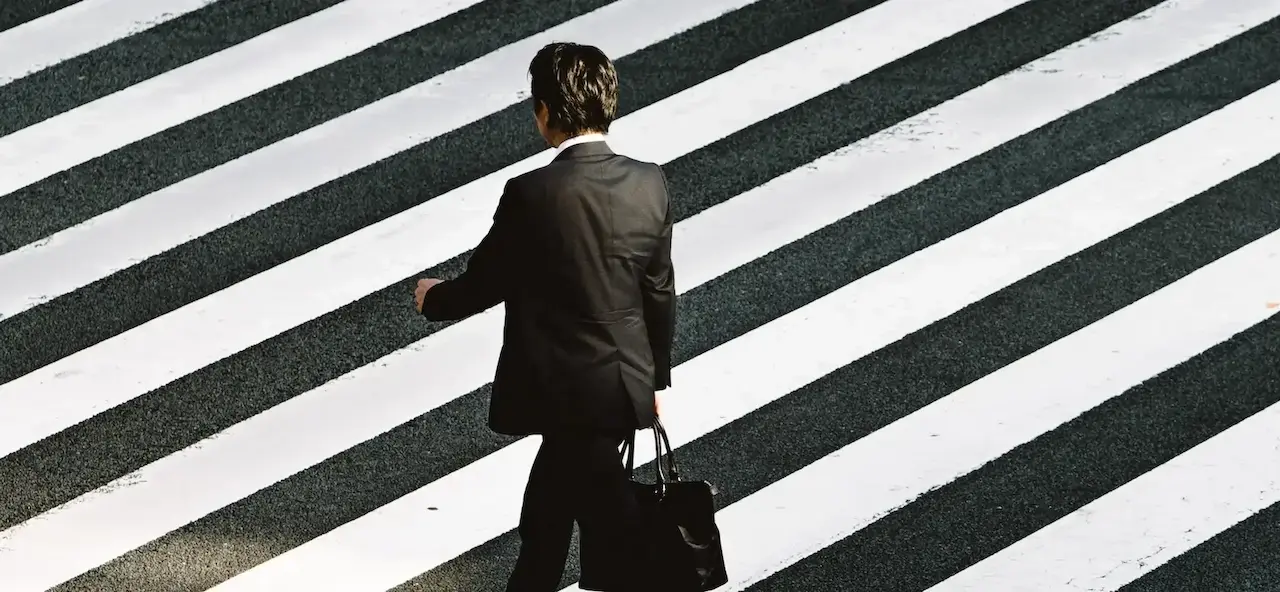
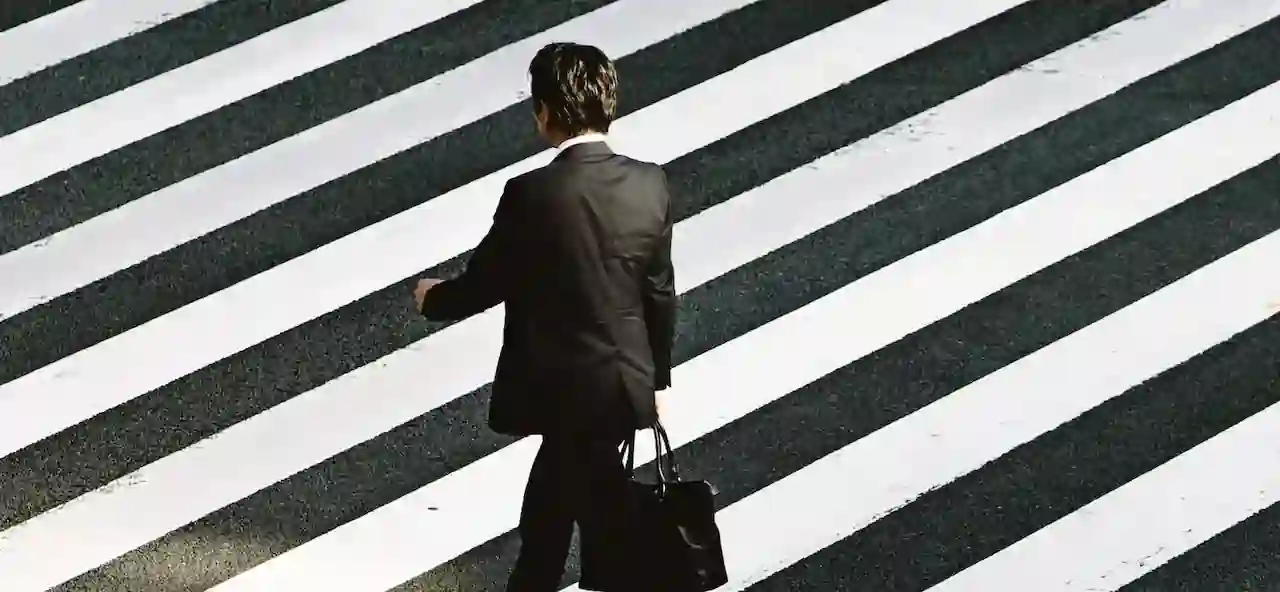
CLS: height-width on images

diff --git a/assets/style.min.css b/assets/style.min.css
@@ -1,1 +1,1 @@
-.service,.top-header{background-color:#fff;display:flex}#about,#contact{padding-inline:100px;padding-block:100px}.picture.left::before,.picture.right::before{content:' ';width:374px;height:329px;bottom:0;z-index:-1}#about,#contact .container,.mg-next,.mg-prev,.nav ul,.service,.top-header,form{display:flex}@font-face{font-family:Spectral-locale;src:url(Font/spectral/Spectral-LightItalic.ttf);font-display:swap}@font-face{font-family:Spectral-locale_bold;src:url(Font/spectral/Spectral-ExtraBoldItalic.ttf);font-display:swap}@font-face{font-family:Inter-locale;src:url(Font/Inter/static/Inter-Regular.ttf);font-display:swap}body{max-width:1920px;margin:auto}*{font-family:Inter-locale;font-style:normal}.top-header{position:sticky;top:0;z-index:1000;justify-content:space-between;padding-inline:100px;padding-block:30px;align-items:center}#about,#contact,#services,.item-column{position:relative}.top-header .name{font-size:26px}.nav ul{list-style-type:none;font-size:14px;margin-bottom:0}.nav li{padding-inline:10px}.nav a{text-decoration:none;color:#000}.social-link img{width:20px}#about{background-color:#f6d2b8}.picture.left::before{background-color:#e5975f;position:absolute;left:0}.picture{flex:1;margin:0 20px;z-index:0}.picture img{width:100%}#about-me,.form-container{flex:2}.about-me__title{margin-top:1em;margin-bottom:60px;font-size:30px}.about-me__introduction{font-family:Spectral-locale_bold;width:60%}.quote,.quote__author,.quote__text{font-family:Spectral-locale}#about-me p{width:80%;font-size:14px}.title{text-align:center;padding-block:2em;font-size:1.7rem}.my-4{margin-bottom:24px}.gallery .nav{justify-content:center}.nav-pills .nav-link{color:#000;cursor:pointer}.nav-link.active-tag,.nav-link.active-tag.active{background:#9f6604;color:#fff}.item-column{margin-bottom:0;padding:0}.item-column::after{content:"";display:block;padding-bottom:100%}.gallery-item{position:absolute;width:100%;height:100%;object-fit:cover;padding:.5em;cursor:pointer}.mg-next,.mg-prev{width:30px;height:30px;border-radius:00%;justify-content:center;align-items:center;font-size:24px}form input,form textarea{width:100%;background-color:transparent;border:1px solid;margin-bottom:20px}.modal-dialog{padding:32px}.quote{font-style:italic;width:70%;margin:auto;padding-block:3em}.quote__text{font-style:italic;font-weight:300;font-size:2.5rem}.quote__author{font-weight:800;font-size:22px}#services{margin:auto;background-color:#a8d5d8}#services .container::before{content:' ';background-color:#1c6474;position:absolute;width:100%;height:30%;bottom:0;left:0;z-index:0}#services .container{justify-content:space-between;display:flex;padding:2em 0}.service{max-width:390px;width:30%;height:337px;padding:1em;flex-direction:column;justify-content:space-between;z-index:1}#contact{margin:auto;background-color:#d8d3a8}.picture.right::before{background-color:#beb45a;position:absolute;right:0}form{flex-direction:column;width:70%;align-items:flex-start}form input{height:2.5em}form textarea{height:5em;line-height:2.5em;font-size:1.2em}input[type=submit]{background-color:#beb45a;padding:.5em 1em}.about-me__introduction{font-size:1rem}#img-camera{max-width:26.25rem}#img-nina{max-width:35rem}#hidden-props{display:none}@media all and (max-width:1180px){.picture{flex:2}#about,#contact .container{align-items:center}.about-me__title{margin-top:0;margin-bottom:1em}#about-me h6,#about-me p{width:100%}}@media all and (max-width:1000px){.picture.left::before,.picture.right::before{height:30%;position:absolute;z-index:-1;width:100%}#about,#contact .container,#services .container{flex-direction:column}.picture{width:50%}.picture.left::before{bottom:auto;top:0;left:0}.about-me__title{text-align:center;margin-top:1em}.service{width:100%;max-width:100%;height:auto;margin:2em 0}.service__description{margin-bottom:1em}#services .container::before{width:30%;height:100%;bottom:0;right:0;left:auto;z-index:0}#contact .picture.right{margin-top:1em}.picture.right::before{bottom:0;right:0}}@media all and (max-width:650px){.top-header{flex-direction:column;padding-inline:0}.top-header .nav,.top-header .nav ul{width:100%;padding:0}.top-header .nav li{flex:1;padding-block:1em;text-align:center}.picture.left::before,.picture.right::before{height:150px}#services .container{align-items:center}.service{max-width:90%}#about,#contact{padding-inline:2em;padding-block:2em}form{width:100%}.picture{width:80%}}
+.service,.top-header{background-color:#fff;display:flex}#about,#contact{padding-inline:100px;padding-block:100px}.picture.left::before,.picture.right::before{content:' ';width:374px;height:329px;bottom:0;z-index:-1}#about,#contact .container,.mg-next,.mg-prev,.nav ul,.service,.top-header,form{display:flex}@font-face{font-family:Spectral-locale;src:url(Font/spectral/Spectral-LightItalic.ttf);font-display:swap}@font-face{font-family:Spectral-locale_bold;src:url(Font/spectral/Spectral-ExtraBoldItalic.ttf);font-display:swap}@font-face{font-family:Inter-locale;src:url(Font/Inter/static/Inter-Regular.ttf);font-display:swap}body{max-width:1920px;margin:auto}*{font-family:Inter-locale;font-style:normal}.top-header{position:sticky;top:0;z-index:1000;justify-content:space-between;padding-inline:100px;padding-block:30px;align-items:center}#about,#contact,#services,.item-column{position:relative}.top-header .name{font-size:26px}.nav ul{list-style-type:none;font-size:14px;margin-bottom:0}.nav li{padding-inline:10px}.nav a{text-decoration:none;color:#000}.social-link img{width:20px}#about{background-color:#f6d2b8}.picture.left::before{background-color:#e5975f;position:absolute;left:0}.picture{flex:1;margin:0 20px;z-index:0}.picture img{width:100%}#about-me{flex:2;border:1px solid red;min-height:30px}.about-me__title{margin-top:1em;margin-bottom:60px;font-size:30px}.about-me__introduction{font-family:Spectral-locale_bold;width:60%}.quote,.quote__author,.quote__text{font-family:Spectral-locale}#about-me p{width:80%;font-size:14px}.title{text-align:center;padding-block:2em;font-size:1.7rem}.my-4{margin-bottom:24px}.gallery .nav{justify-content:center}.nav-pills .nav-link{color:#000;cursor:pointer}.nav-link.active-tag,.nav-link.active-tag.active{background:#9f6604;color:#fff}.item-column{margin-bottom:0;padding:0}.item-column::after{content:"";display:block;padding-bottom:100%}.gallery-item{position:absolute;width:100%;height:100%;object-fit:cover;padding:.5em;cursor:pointer}.mg-next,.mg-prev{width:30px;height:30px;border-radius:00%;justify-content:center;align-items:center;font-size:24px}form input,form textarea{width:100%;background-color:transparent;border:1px solid;margin-bottom:20px}.modal-dialog{padding:32px}.quote{font-style:italic;width:70%;margin:auto;padding-block:3em}.quote__text{font-style:italic;font-weight:300;font-size:2.5rem}.quote__author{font-weight:800;font-size:22px}#services{margin:auto;background-color:#a8d5d8}#services .container::before{content:' ';background-color:#1c6474;position:absolute;width:100%;height:30%;bottom:0;left:0;z-index:0}#services .container{justify-content:space-between;display:flex;padding:2em 0}.service{max-width:390px;width:30%;height:337px;padding:1em;flex-direction:column;justify-content:space-between;z-index:1}#contact{margin:auto;background-color:#d8d3a8}.picture.right::before{background-color:#beb45a;position:absolute;right:0}.form-container{flex:2}form{flex-direction:column;width:70%;align-items:flex-start}form input{height:2.5em}form textarea{height:5em;line-height:2.5em;font-size:1.2em}input[type=submit]{background-color:#beb45a;padding:.5em 1em}#nina-img{min-height:auto}.about-me__introduction{font-size:1rem}#img-camera{max-width:26.25rem}#img-nina{max-width:35rem}#hidden-props{display:none}@media all and (max-width:1180px){.picture{flex:2}#about-me{min-height:400px}#about,#contact .container{align-items:center}.about-me__title{margin-top:0;margin-bottom:1em}#about-me h6,#about-me p{width:100%}}@media all and (max-width:1000px){.picture.left::before,.picture.right::before{height:30%;position:absolute;z-index:-1;width:100%}#about,#contact .container,#services .container{flex-direction:column}#about-me{min-height:300px}.picture{width:50%}.picture.left::before{bottom:auto;top:0;left:0}.about-me__title{text-align:center;margin-top:1em}.service{width:100%;max-width:100%;height:auto;margin:2em 0}.service__description{margin-bottom:1em}#services .container::before{width:30%;height:100%;bottom:0;right:0;left:auto;z-index:0}#contact .picture.right{margin-top:1em}.picture.right::before{bottom:0;right:0}}@media all and (max-width:650px){.top-header{flex-direction:column;padding-inline:0}.top-header .nav,.top-header .nav ul{width:100%;padding:0}.top-header .nav li{flex:1;padding-block:1em;text-align:center}.picture.left::before,.picture.right::before{height:150px}#services .container{align-items:center}.service{max-width:90%}#about,#contact{padding-inline:2em;padding-block:2em}form{width:100%}.picture{width:80%}}

diff --git a/index.html b/index.html
@@ -87,7 +87,7 @@
 				<div class="carousel-inner">
 					<div class="carousel-item active">
 						<img src="./assets/images/slider/ryoji-iwata_1280W.webp" class="d-block w-100"
-							alt="Passant vue de dos traversant un passage piéton"  fetchpriority="high" width="1280" height="auto">
+							alt="Passant vue de dos traversant un passage piéton"  fetchpriority="high" width="1280" min-height="220">
 					</div>
 					<div class="carousel-item">
 						<img src="./assets/images/slider/nicholas-green_1680W.webp" class="d-block w-100"
@@ -114,7 +114,7 @@
 		</div>
 		<div id="about">
 			<div class="picture left">
-				<img src="./assets/images/nina_440W.webp" alt="Portrait de Nina Carducci (c'est moi!)" loading="lazy" width="440" height="auto">
+				<img src="./assets/images/nina_440W.webp" alt="Portrait de Nina Carducci (c'est moi!)" loading="lazy" width="440" min-height="220"  id="nina-img">
 			</div>
 			<article id="about-me">
 				<h2 class="about-me__title">A propos de moi</h2>

diff --git a/assets/style.css b/assets/style.css
@@ -95,7 +95,8 @@ body {
 }
 
 #about-me {
-	flex: 2
+	flex: 2;
+	 border: 1px solid red;
 }
 
 .about-me__title {
@@ -290,10 +291,16 @@ input[type="submit"] {
 	padding: .5em 1em
 }
 
+#nina-img {
+	min-height: auto;
+}
+
 .about-me__introduction {
 	font-size: 1rem;
 }
-
+#about-me{
+	min-height: 30px;
+}
 
 #img-camera {
 	max-width: 26.25rem;
@@ -316,6 +323,10 @@ input[type="submit"] {
 		flex: 2;
 	}
 
+	#about-me{
+		min-height: 400px;
+	}
+
 	#about,
 	#contact .container {
 		align-items: center;
@@ -335,9 +346,10 @@ input[type="submit"] {
 @media all and (max-width: 1000px) {
 	#about {
 		flex-direction: column;
-
 	}
-
+	#about-me{
+		min-height: 300px;
+	}
 	.picture {
 		width: 50%;
 	}
